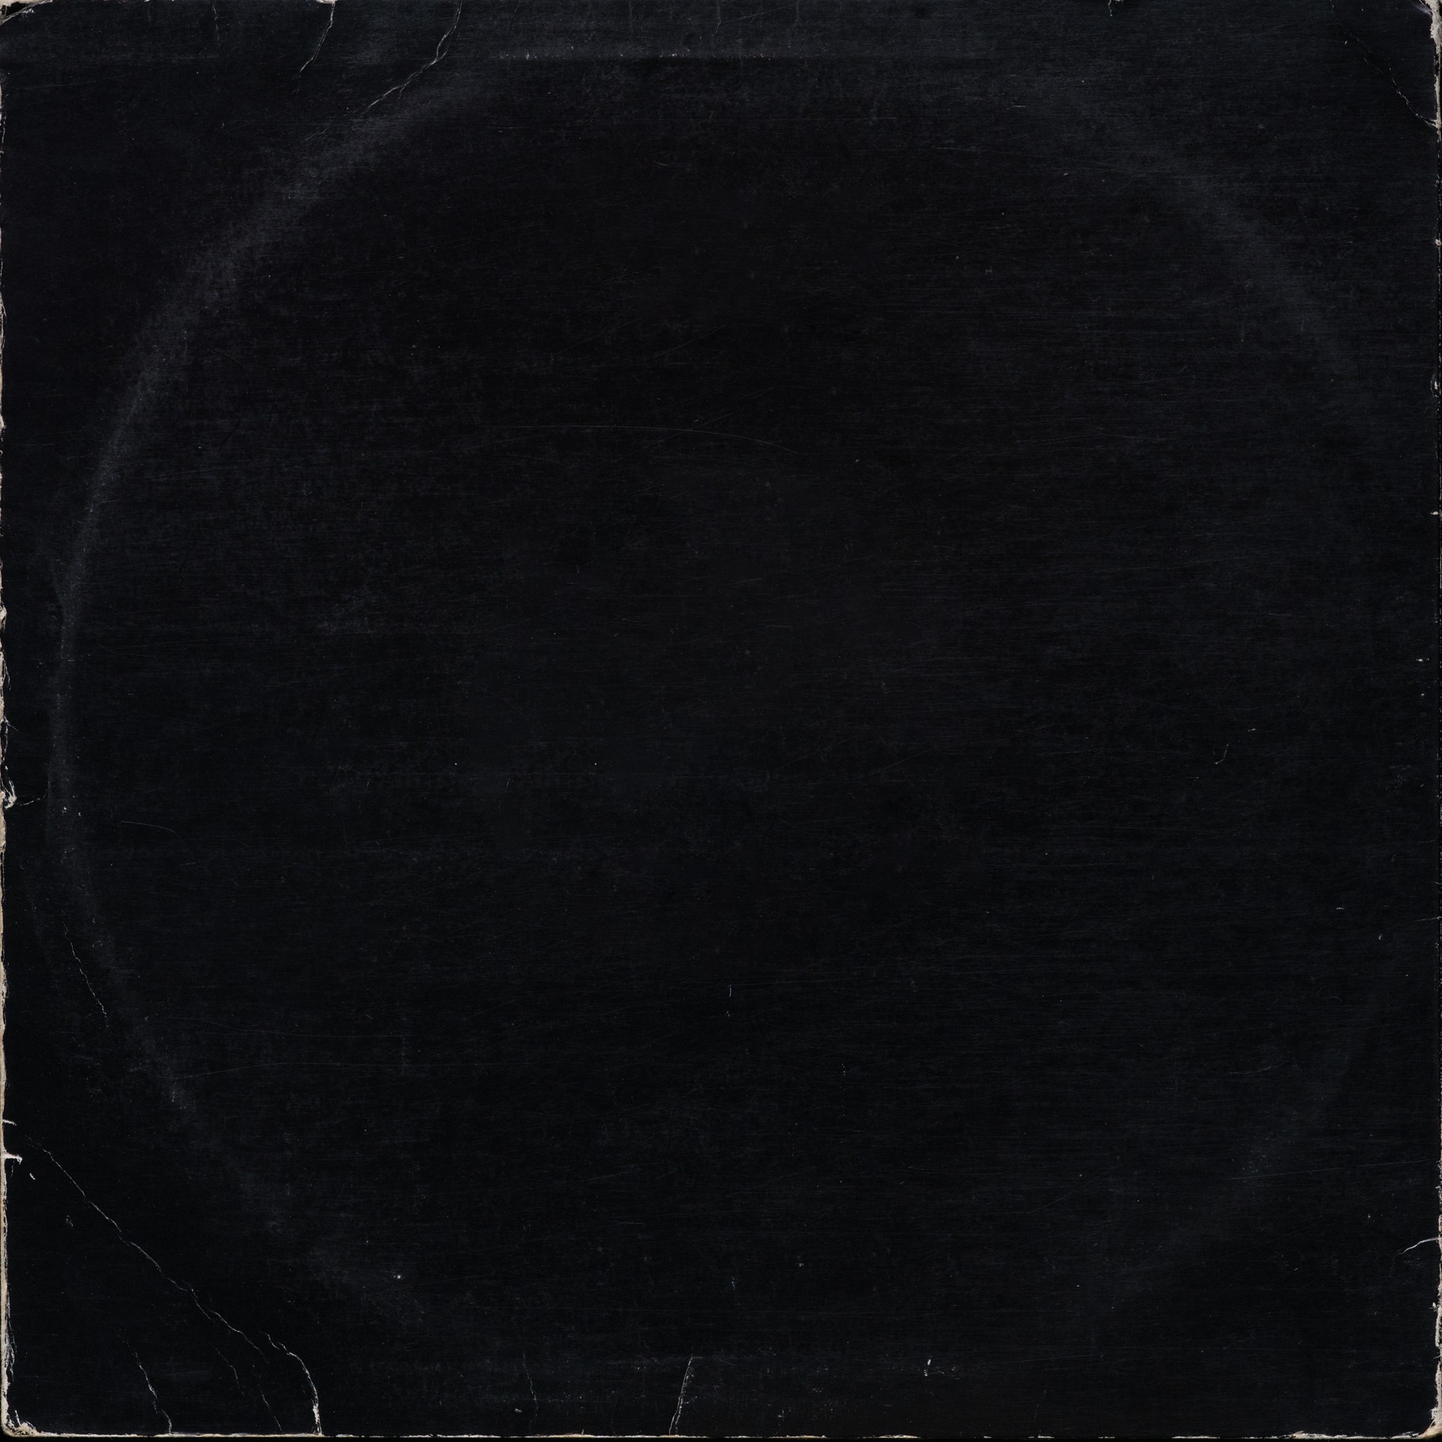
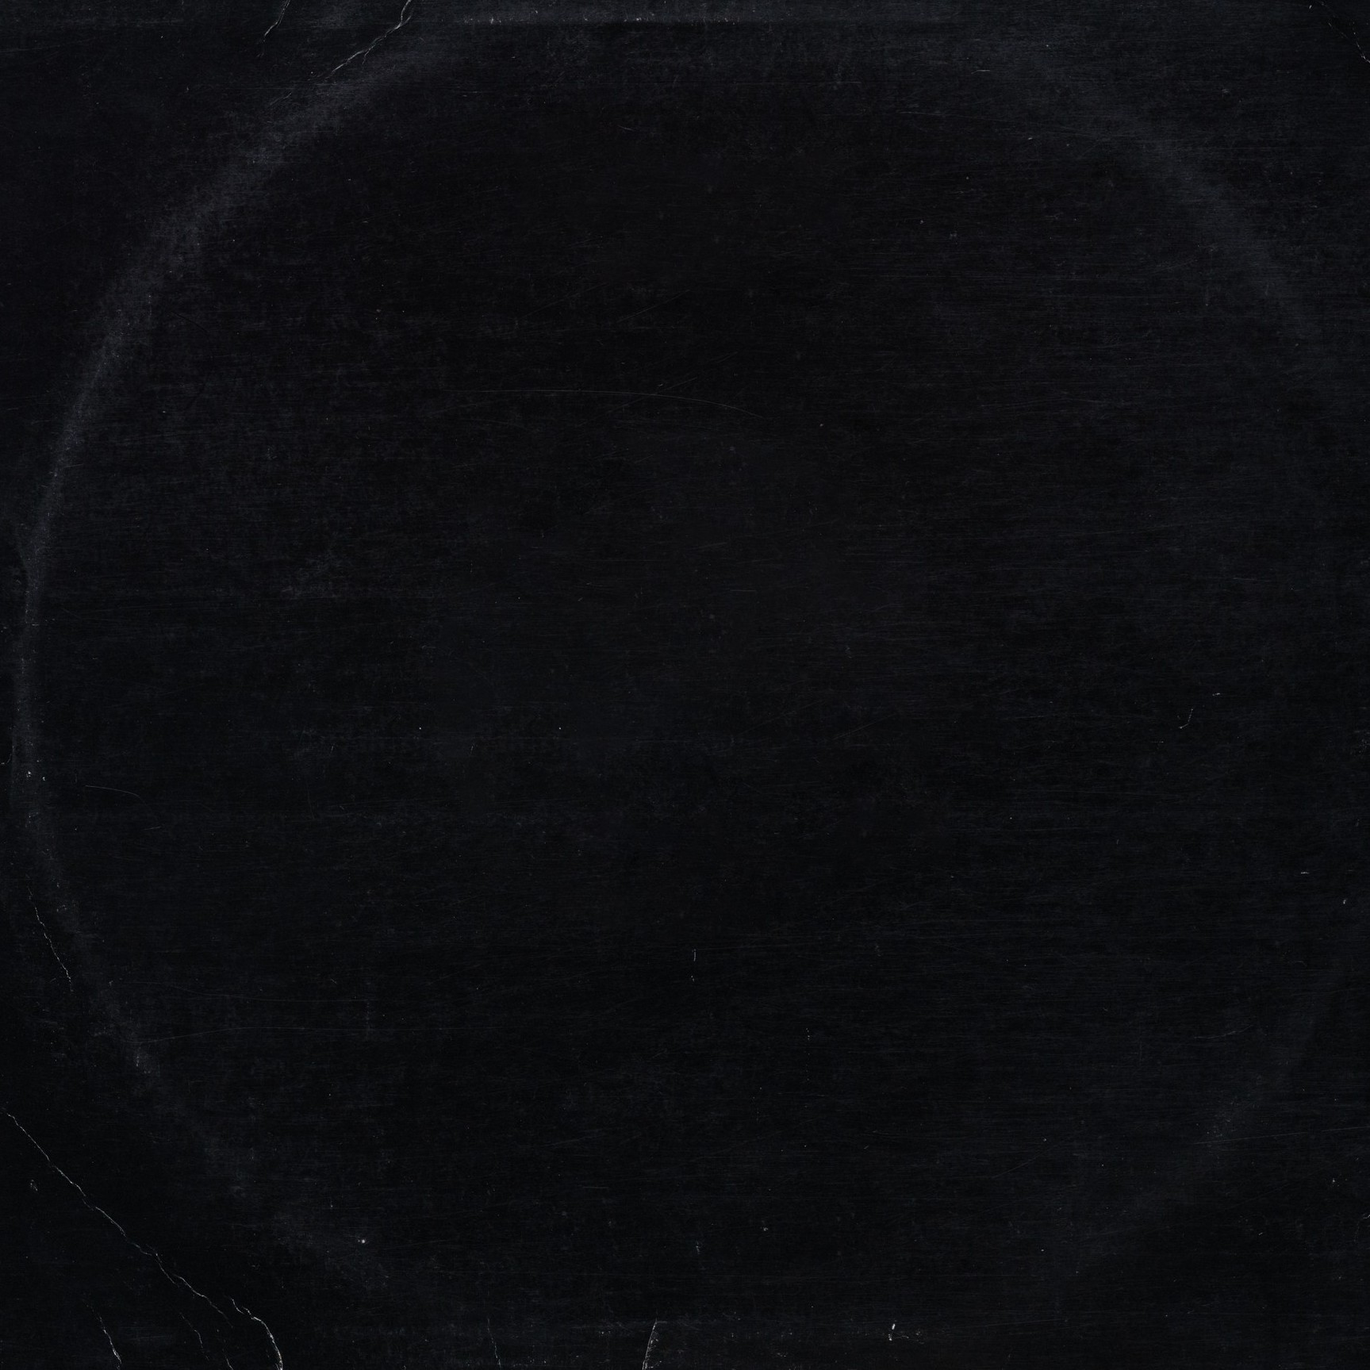
Made footer and added it to all pages

diff --git a/home.html b/home.html
@@ -96,6 +96,7 @@
         </div>
         <!-- AlbumGrid Section End -->
         
+
         <!-- Footer-->
         <footer class="footer text-center">
             <div class="container">
@@ -104,14 +105,14 @@
                     <div class="col-lg-4 mb-5 mb-lg-0">
                         <h4 class="text-uppercase mb-4">Location</h4>
                         <p class="lead mb-0">
-                            2215 John Daniel Drive
+                            Calle Tulipán, 28933
                             <br />
-                            Clark, MO 65243
+                            Móstoles, Madrid 
                         </p>
                     </div>
                     <!-- Footer Social Icons-->
                     <div class="col-lg-4 mb-5 mb-lg-0">
-                        <h4 class="text-uppercase mb-4">Around the Web</h4>
+                        <h4 class="text-uppercase mb-4">Check our socials!</h4>
                         <a class="btn btn-outline-light btn-social mx-1" href="#!"><i class="fab fa-fw fa-facebook-f"></i></a>
                         <a class="btn btn-outline-light btn-social mx-1" href="#!"><i class="fab fa-fw fa-twitter"></i></a>
                         <a class="btn btn-outline-light btn-social mx-1" href="#!"><i class="fab fa-fw fa-linkedin-in"></i></a>
@@ -119,213 +120,22 @@
                     </div>
                     <!-- Footer About Text-->
                     <div class="col-lg-4">
-                        <h4 class="text-uppercase mb-4">About Freelancer</h4>
+                        <h4 class="text-uppercase mb-4">About Record Scratch</h4>
                         <p class="lead mb-0">
-                            Freelance is a free to use, MIT licensed Bootstrap theme created by
-                            <a href="http://startbootstrap.com">Start Bootstrap</a>
-                            .
+                            We're' a group of music enthusiasts aiming to deliver a curated list of modern musical albums for you to
+                            discover.
                         </p>
                     </div>
                 </div>
             </div>
         </footer>
+
+
         <!-- Copyright Section-->
         <div class="copyright py-4 text-center text-white">
-            <div class="container"><small>Copyright &copy; Your Website 2023</small></div>
+            <div class="container"><small>Copyright &copy; Record Scratch 2026</small></div>
         </div>
-        <!-- Portfolio Modals-->
-        <!-- Portfolio Modal 1-->
-        <div class="portfolio-modal modal fade" id="portfolioModal1" tabindex="-1" aria-labelledby="portfolioModal1" aria-hidden="true">
-            <div class="modal-dialog modal-xl">
-                <div class="modal-content">
-                    <div class="modal-header border-0"><button class="btn-close" type="button" data-bs-dismiss="modal" aria-label="Close"></button></div>
-                    <div class="modal-body text-center pb-5">
-                        <div class="container">
-                            <div class="row justify-content-center">
-                                <div class="col-lg-8">
-                                    <!-- Portfolio Modal - Title-->
-                                    <h2 class="portfolio-modal-title text-secondary text-uppercase mb-0">Log Cabin</h2>
-                                    <!-- Icon Divider-->
-                                    <div class="divider-custom">
-                                        <div class="divider-custom-line"></div>
-                                        <div class="divider-custom-icon"><i class="fas fa-star"></i></div>
-                                        <div class="divider-custom-line"></div>
-                                    </div>
-                                    <!-- Portfolio Modal - Image-->
-                                    <img class="img-fluid rounded mb-5" src="assets/img/portfolio/cabin.png" alt="..." />
-                                    <!-- Portfolio Modal - Text-->
-                                    <p class="mb-4">Lorem ipsum dolor sit amet, consectetur adipisicing elit. Mollitia neque assumenda ipsam nihil, molestias magnam, recusandae quos quis inventore quisquam velit asperiores, vitae? Reprehenderit soluta, eos quod consequuntur itaque. Nam.</p>
-                                    <button class="btn btn-primary" data-bs-dismiss="modal">
-                                        <i class="fas fa-xmark fa-fw"></i>
-                                        Close Window
-                                    </button>
-                                </div>
-                            </div>
-                        </div>
-                    </div>
-                </div>
-            </div>
-        </div>
-        <!-- Portfolio Modal 2-->
-        <div class="portfolio-modal modal fade" id="portfolioModal2" tabindex="-1" aria-labelledby="portfolioModal2" aria-hidden="true">
-            <div class="modal-dialog modal-xl">
-                <div class="modal-content">
-                    <div class="modal-header border-0"><button class="btn-close" type="button" data-bs-dismiss="modal" aria-label="Close"></button></div>
-                    <div class="modal-body text-center pb-5">
-                        <div class="container">
-                            <div class="row justify-content-center">
-                                <div class="col-lg-8">
-                                    <!-- Portfolio Modal - Title-->
-                                    <h2 class="portfolio-modal-title text-secondary text-uppercase mb-0">Tasty Cake</h2>
-                                    <!-- Icon Divider-->
-                                    <div class="divider-custom">
-                                        <div class="divider-custom-line"></div>
-                                        <div class="divider-custom-icon"><i class="fas fa-star"></i></div>
-                                        <div class="divider-custom-line"></div>
-                                    </div>
-                                    <!-- Portfolio Modal - Image-->
-                                    <img class="img-fluid rounded mb-5" src="assets/img/portfolio/cake.png" alt="..." />
-                                    <!-- Portfolio Modal - Text-->
-                                    <p class="mb-4">Lorem ipsum dolor sit amet, consectetur adipisicing elit. Mollitia neque assumenda ipsam nihil, molestias magnam, recusandae quos quis inventore quisquam velit asperiores, vitae? Reprehenderit soluta, eos quod consequuntur itaque. Nam.</p>
-                                    <button class="btn btn-primary" data-bs-dismiss="modal">
-                                        <i class="fas fa-xmark fa-fw"></i>
-                                        Close Window
-                                    </button>
-                                </div>
-                            </div>
-                        </div>
-                    </div>
-                </div>
-            </div>
-        </div>
-        <!-- Portfolio Modal 3-->
-        <div class="portfolio-modal modal fade" id="portfolioModal3" tabindex="-1" aria-labelledby="portfolioModal3" aria-hidden="true">
-            <div class="modal-dialog modal-xl">
-                <div class="modal-content">
-                    <div class="modal-header border-0"><button class="btn-close" type="button" data-bs-dismiss="modal" aria-label="Close"></button></div>
-                    <div class="modal-body text-center pb-5">
-                        <div class="container">
-                            <div class="row justify-content-center">
-                                <div class="col-lg-8">
-                                    <!-- Portfolio Modal - Title-->
-                                    <h2 class="portfolio-modal-title text-secondary text-uppercase mb-0">Circus Tent</h2>
-                                    <!-- Icon Divider-->
-                                    <div class="divider-custom">
-                                        <div class="divider-custom-line"></div>
-                                        <div class="divider-custom-icon"><i class="fas fa-star"></i></div>
-                                        <div class="divider-custom-line"></div>
-                                    </div>
-                                    <!-- Portfolio Modal - Image-->
-                                    <img class="img-fluid rounded mb-5" src="assets/img/portfolio/circus.png" alt="..." />
-                                    <!-- Portfolio Modal - Text-->
-                                    <p class="mb-4">Lorem ipsum dolor sit amet, consectetur adipisicing elit. Mollitia neque assumenda ipsam nihil, molestias magnam, recusandae quos quis inventore quisquam velit asperiores, vitae? Reprehenderit soluta, eos quod consequuntur itaque. Nam.</p>
-                                    <button class="btn btn-primary" data-bs-dismiss="modal">
-                                        <i class="fas fa-xmark fa-fw"></i>
-                                        Close Window
-                                    </button>
-                                </div>
-                            </div>
-                        </div>
-                    </div>
-                </div>
-            </div>
-        </div>
-        <!-- Portfolio Modal 4-->
-        <div class="portfolio-modal modal fade" id="portfolioModal4" tabindex="-1" aria-labelledby="portfolioModal4" aria-hidden="true">
-            <div class="modal-dialog modal-xl">
-                <div class="modal-content">
-                    <div class="modal-header border-0"><button class="btn-close" type="button" data-bs-dismiss="modal" aria-label="Close"></button></div>
-                    <div class="modal-body text-center pb-5">
-                        <div class="container">
-                            <div class="row justify-content-center">
-                                <div class="col-lg-8">
-                                    <!-- Portfolio Modal - Title-->
-                                    <h2 class="portfolio-modal-title text-secondary text-uppercase mb-0">Controller</h2>
-                                    <!-- Icon Divider-->
-                                    <div class="divider-custom">
-                                        <div class="divider-custom-line"></div>
-                                        <div class="divider-custom-icon"><i class="fas fa-star"></i></div>
-                                        <div class="divider-custom-line"></div>
-                                    </div>
-                                    <!-- Portfolio Modal - Image-->
-                                    <img class="img-fluid rounded mb-5" src="assets/img/portfolio/game.png" alt="..." />
-                                    <!-- Portfolio Modal - Text-->
-                                    <p class="mb-4">Lorem ipsum dolor sit amet, consectetur adipisicing elit. Mollitia neque assumenda ipsam nihil, molestias magnam, recusandae quos quis inventore quisquam velit asperiores, vitae? Reprehenderit soluta, eos quod consequuntur itaque. Nam.</p>
-                                    <button class="btn btn-primary" data-bs-dismiss="modal">
-                                        <i class="fas fa-xmark fa-fw"></i>
-                                        Close Window
-                                    </button>
-                                </div>
-                            </div>
-                        </div>
-                    </div>
-                </div>
-            </div>
-        </div>
-        <!-- Portfolio Modal 5-->
-        <div class="portfolio-modal modal fade" id="portfolioModal5" tabindex="-1" aria-labelledby="portfolioModal5" aria-hidden="true">
-            <div class="modal-dialog modal-xl">
-                <div class="modal-content">
-                    <div class="modal-header border-0"><button class="btn-close" type="button" data-bs-dismiss="modal" aria-label="Close"></button></div>
-                    <div class="modal-body text-center pb-5">
-                        <div class="container">
-                            <div class="row justify-content-center">
-                                <div class="col-lg-8">
-                                    <!-- Portfolio Modal - Title-->
-                                    <h2 class="portfolio-modal-title text-secondary text-uppercase mb-0">Locked Safe</h2>
-                                    <!-- Icon Divider-->
-                                    <div class="divider-custom">
-                                        <div class="divider-custom-line"></div>
-                                        <div class="divider-custom-icon"><i class="fas fa-star"></i></div>
-                                        <div class="divider-custom-line"></div>
-                                    </div>
-                                    <!-- Portfolio Modal - Image-->
-                                    <img class="img-fluid rounded mb-5" src="assets/img/portfolio/safe.png" alt="..." />
-                                    <!-- Portfolio Modal - Text-->
-                                    <p class="mb-4">Lorem ipsum dolor sit amet, consectetur adipisicing elit. Mollitia neque assumenda ipsam nihil, molestias magnam, recusandae quos quis inventore quisquam velit asperiores, vitae? Reprehenderit soluta, eos quod consequuntur itaque. Nam.</p>
-                                    <button class="btn btn-primary" data-bs-dismiss="modal">
-                                        <i class="fas fa-xmark fa-fw"></i>
-                                        Close Window
-                                    </button>
-                                </div>
-                            </div>
-                        </div>
-                    </div>
-                </div>
-            </div>
-        </div>
-        <!-- Portfolio Modal 6-->
-        <div class="portfolio-modal modal fade" id="portfolioModal6" tabindex="-1" aria-labelledby="portfolioModal6" aria-hidden="true">
-            <div class="modal-dialog modal-xl">
-                <div class="modal-content">
-                    <div class="modal-header border-0"><button class="btn-close" type="button" data-bs-dismiss="modal" aria-label="Close"></button></div>
-                    <div class="modal-body text-center pb-5">
-                        <div class="container">
-                            <div class="row justify-content-center">
-                                <div class="col-lg-8">
-                                    <!-- Portfolio Modal - Title-->
-                                    <h2 class="portfolio-modal-title text-secondary text-uppercase mb-0">Submarine</h2>
-                                    <!-- Icon Divider-->
-                                    <div class="divider-custom">
-                                        <div class="divider-custom-line"></div>
-                                        <div class="divider-custom-icon"><i class="fas fa-star"></i></div>
-                                        <div class="divider-custom-line"></div>
-                                    </div>
-                                    <!-- Portfolio Modal - Image-->
-                                    <img class="img-fluid rounded mb-5" src="assets/img/portfolio/submarine.png" alt="..." />
-                                    <!-- Portfolio Modal - Text-->
-                                    <p class="mb-4">Lorem ipsum dolor sit amet, consectetur adipisicing elit. Mollitia neque assumenda ipsam nihil, molestias magnam, recusandae quos quis inventore quisquam velit asperiores, vitae? Reprehenderit soluta, eos quod consequuntur itaque. Nam.</p>
-                                    <button class="btn btn-primary" data-bs-dismiss="modal">
-                                        <i class="fas fa-xmark fa-fw"></i>
-                                        Close Window
-                                    </button>
-                                </div>
-                            </div>
-                        </div>
-                    </div>
-                </div>
-            </div>
-        </div>
+       
         <!-- Bootstrap core JS-->
         <script src="https://cdn.jsdelivr.net/npm/bootstrap@5.2.3/dist/js/bootstrap.bundle.min.js"></script>
         <!-- Core theme JS-->

diff --git a/detail.html b/detail.html
@@ -210,6 +210,7 @@
                 </div>
             </div>
         </section>
+
         <!-- Footer-->
         <footer class="footer text-center">
             <div class="container">
@@ -218,14 +219,14 @@
                     <div class="col-lg-4 mb-5 mb-lg-0">
                         <h4 class="text-uppercase mb-4">Location</h4>
                         <p class="lead mb-0">
-                            2215 John Daniel Drive
+                            Calle Tulipán, 28933
                             <br />
-                            Clark, MO 65243
+                            Móstoles, Madrid 
                         </p>
                     </div>
                     <!-- Footer Social Icons-->
                     <div class="col-lg-4 mb-5 mb-lg-0">
-                        <h4 class="text-uppercase mb-4">Around the Web</h4>
+                        <h4 class="text-uppercase mb-4">Check our socials!</h4>
                         <a class="btn btn-outline-light btn-social mx-1" href="#!"><i class="fab fa-fw fa-facebook-f"></i></a>
                         <a class="btn btn-outline-light btn-social mx-1" href="#!"><i class="fab fa-fw fa-twitter"></i></a>
                         <a class="btn btn-outline-light btn-social mx-1" href="#!"><i class="fab fa-fw fa-linkedin-in"></i></a>
@@ -233,20 +234,23 @@
                     </div>
                     <!-- Footer About Text-->
                     <div class="col-lg-4">
-                        <h4 class="text-uppercase mb-4">About Freelancer</h4>
+                        <h4 class="text-uppercase mb-4">About Record Scratch</h4>
                         <p class="lead mb-0">
-                            Freelance is a free to use, MIT licensed Bootstrap theme created by
-                            <a href="http://startbootstrap.com">Start Bootstrap</a>
-                            .
+                            We're' a group of music enthusiasts aiming to deliver a curated list of modern musical albums for you to
+                            discover.
                         </p>
                     </div>
                 </div>
             </div>
         </footer>
+
+
         <!-- Copyright Section-->
         <div class="copyright py-4 text-center text-white">
-            <div class="container"><small>Copyright &copy; Your Website 2023</small></div>
+            <div class="container"><small>Copyright &copy; Record Scratch 2026</small></div>
         </div>
+
+        
         <!-- Portfolio Modals-->
         <!-- Portfolio Modal 1-->
         <div class="portfolio-modal modal fade" id="portfolioModal1" tabindex="-1" aria-labelledby="portfolioModal1" aria-hidden="true">

diff --git a/creation.html b/creation.html
@@ -76,14 +76,14 @@
                     <div class="col-lg-4 mb-5 mb-lg-0">
                         <h4 class="text-uppercase mb-4">Location</h4>
                         <p class="lead mb-0">
-                            2215 John Daniel Drive
+                            Calle Tulipán, 28933
                             <br />
-                            Clark, MO 65243
+                            Móstoles, Madrid 
                         </p>
                     </div>
                     <!-- Footer Social Icons-->
                     <div class="col-lg-4 mb-5 mb-lg-0">
-                        <h4 class="text-uppercase mb-4">Around the Web</h4>
+                        <h4 class="text-uppercase mb-4">Check our socials!</h4>
                         <a class="btn btn-outline-light btn-social mx-1" href="#!"><i class="fab fa-fw fa-facebook-f"></i></a>
                         <a class="btn btn-outline-light btn-social mx-1" href="#!"><i class="fab fa-fw fa-twitter"></i></a>
                         <a class="btn btn-outline-light btn-social mx-1" href="#!"><i class="fab fa-fw fa-linkedin-in"></i></a>
@@ -91,20 +91,23 @@
                     </div>
                     <!-- Footer About Text-->
                     <div class="col-lg-4">
-                        <h4 class="text-uppercase mb-4">About Freelancer</h4>
+                        <h4 class="text-uppercase mb-4">About Record Scratch</h4>
                         <p class="lead mb-0">
-                            Freelance is a free to use, MIT licensed Bootstrap theme created by
-                            <a href="http://startbootstrap.com">Start Bootstrap</a>
-                            .
+                            We're' a group of music enthusiasts aiming to deliver a curated list of modern musical albums for you to
+                            discover.
                         </p>
                     </div>
                 </div>
             </div>
         </footer>
+
+
         <!-- Copyright Section-->
         <div class="copyright py-4 text-center text-white">
-            <div class="container"><small>Copyright &copy; Your Website 2023</small></div>
+            <div class="container"><small>Copyright &copy; Record Scratch 2026</small></div>
         </div>
+
+        
         <!-- Portfolio Modals-->
         <!-- Portfolio Modal 1-->
         <div class="portfolio-modal modal fade" id="portfolioModal1" tabindex="-1" aria-labelledby="portfolioModal1" aria-hidden="true">

diff --git a/css/styles.css b/css/styles.css
@@ -5252,7 +5252,7 @@ textarea.form-control-lg {
   background-color: #959596;
   border-color: #959596;
 }
-url(../template.html)
+
 .list-group-item-dark {
   color: #141619;
   background-color: #d3d3d4;
@@ -11109,6 +11109,7 @@ html {
 .masthead {
   padding: 0;
   justify-content: center;
+  background-image: url(/resources/background.jpg)
 }
 .masthead div {
   display: flex;
